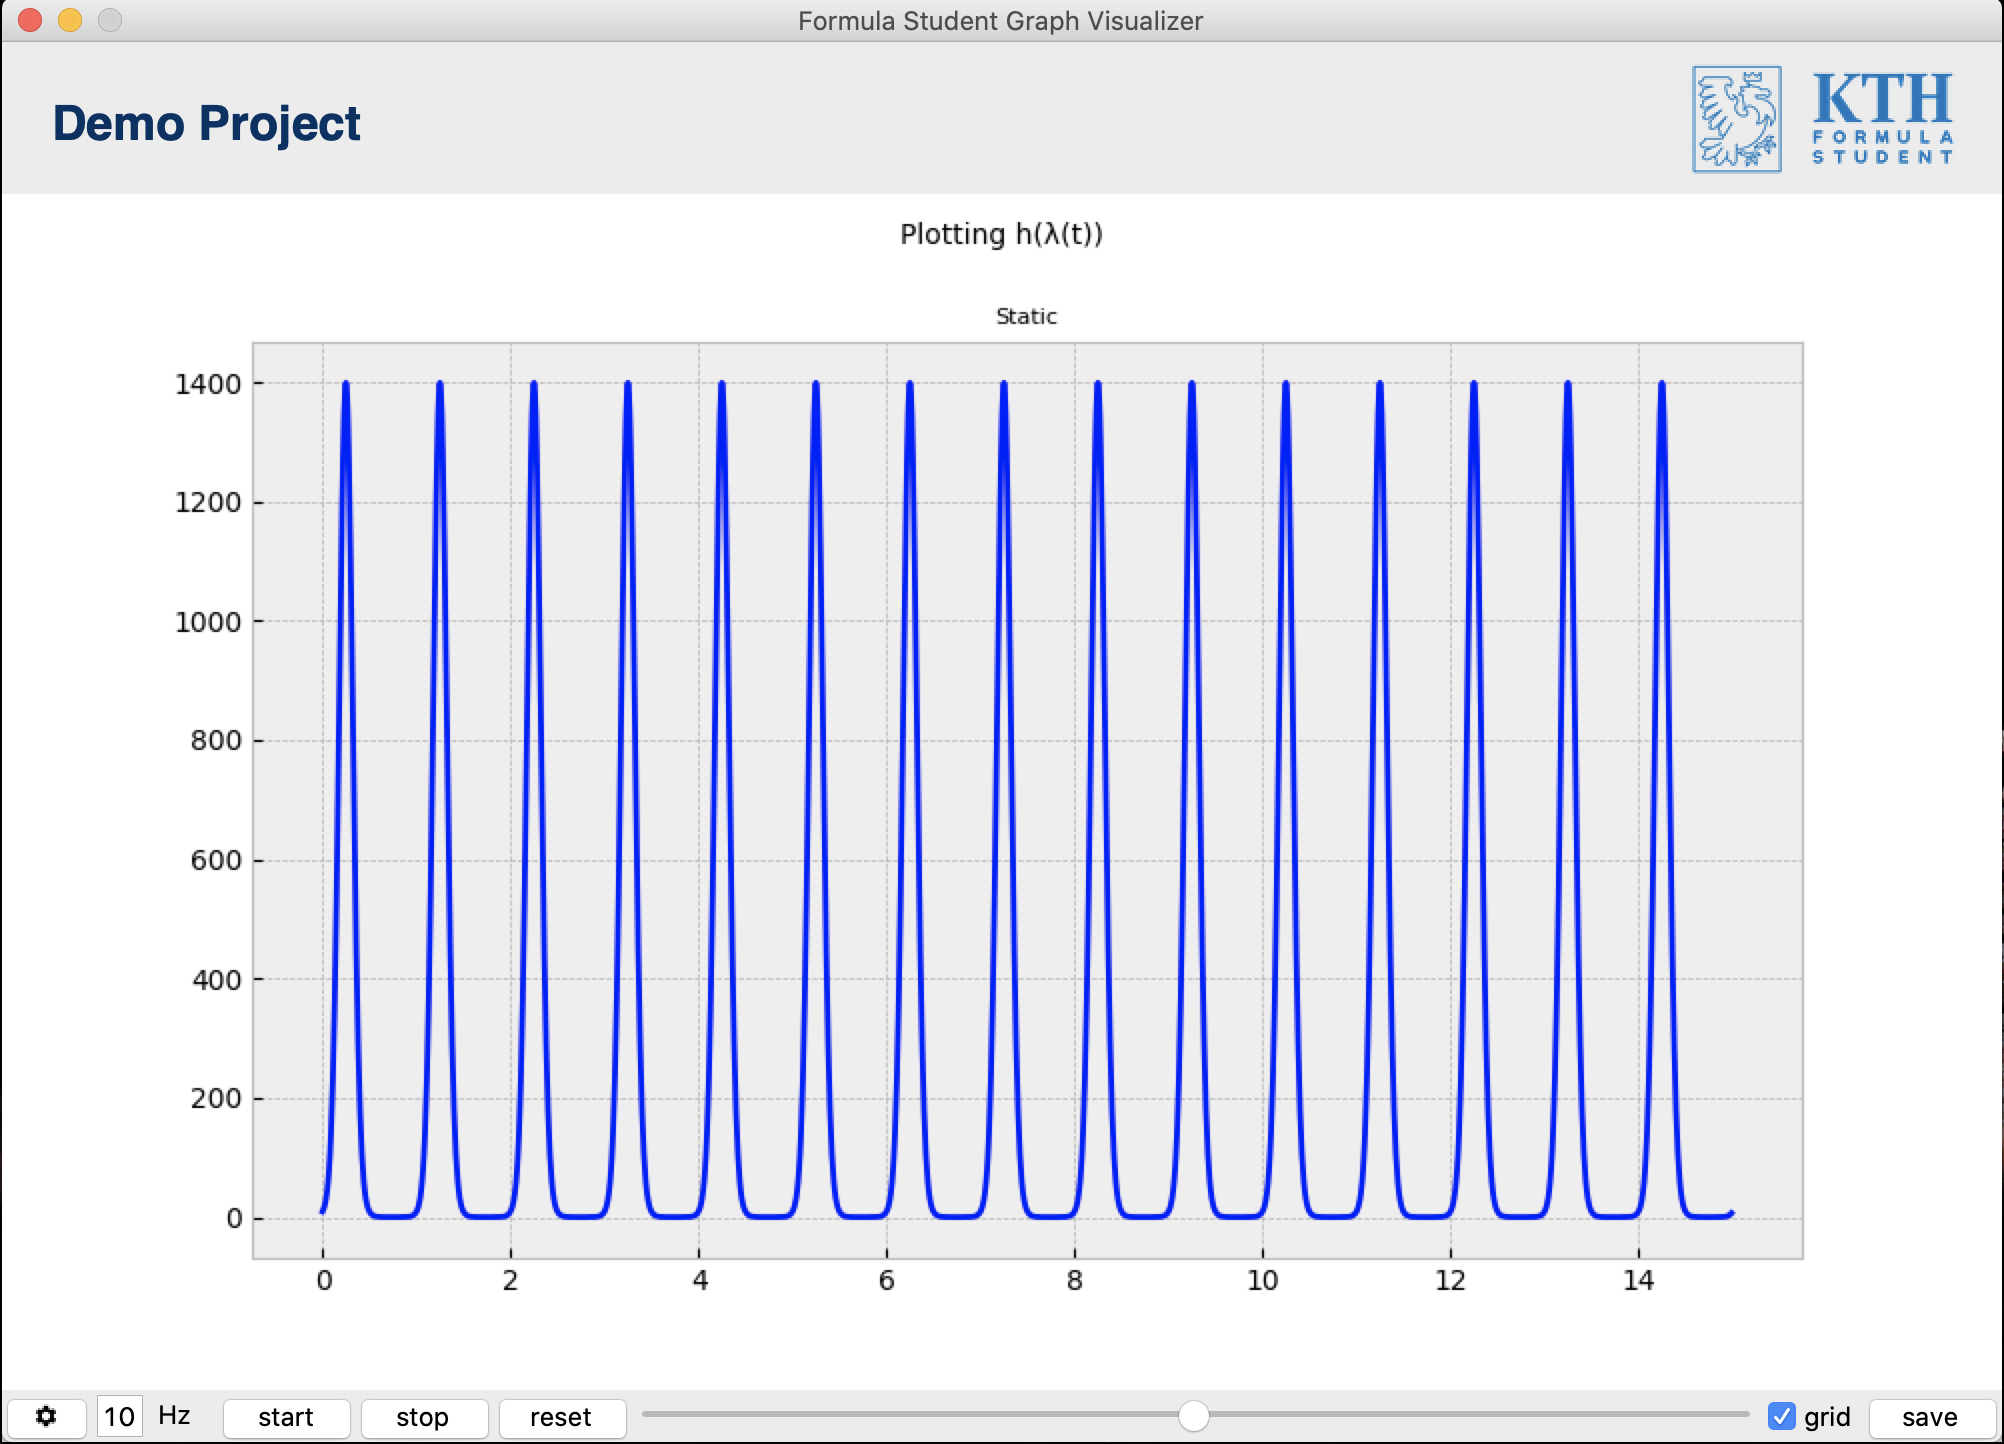
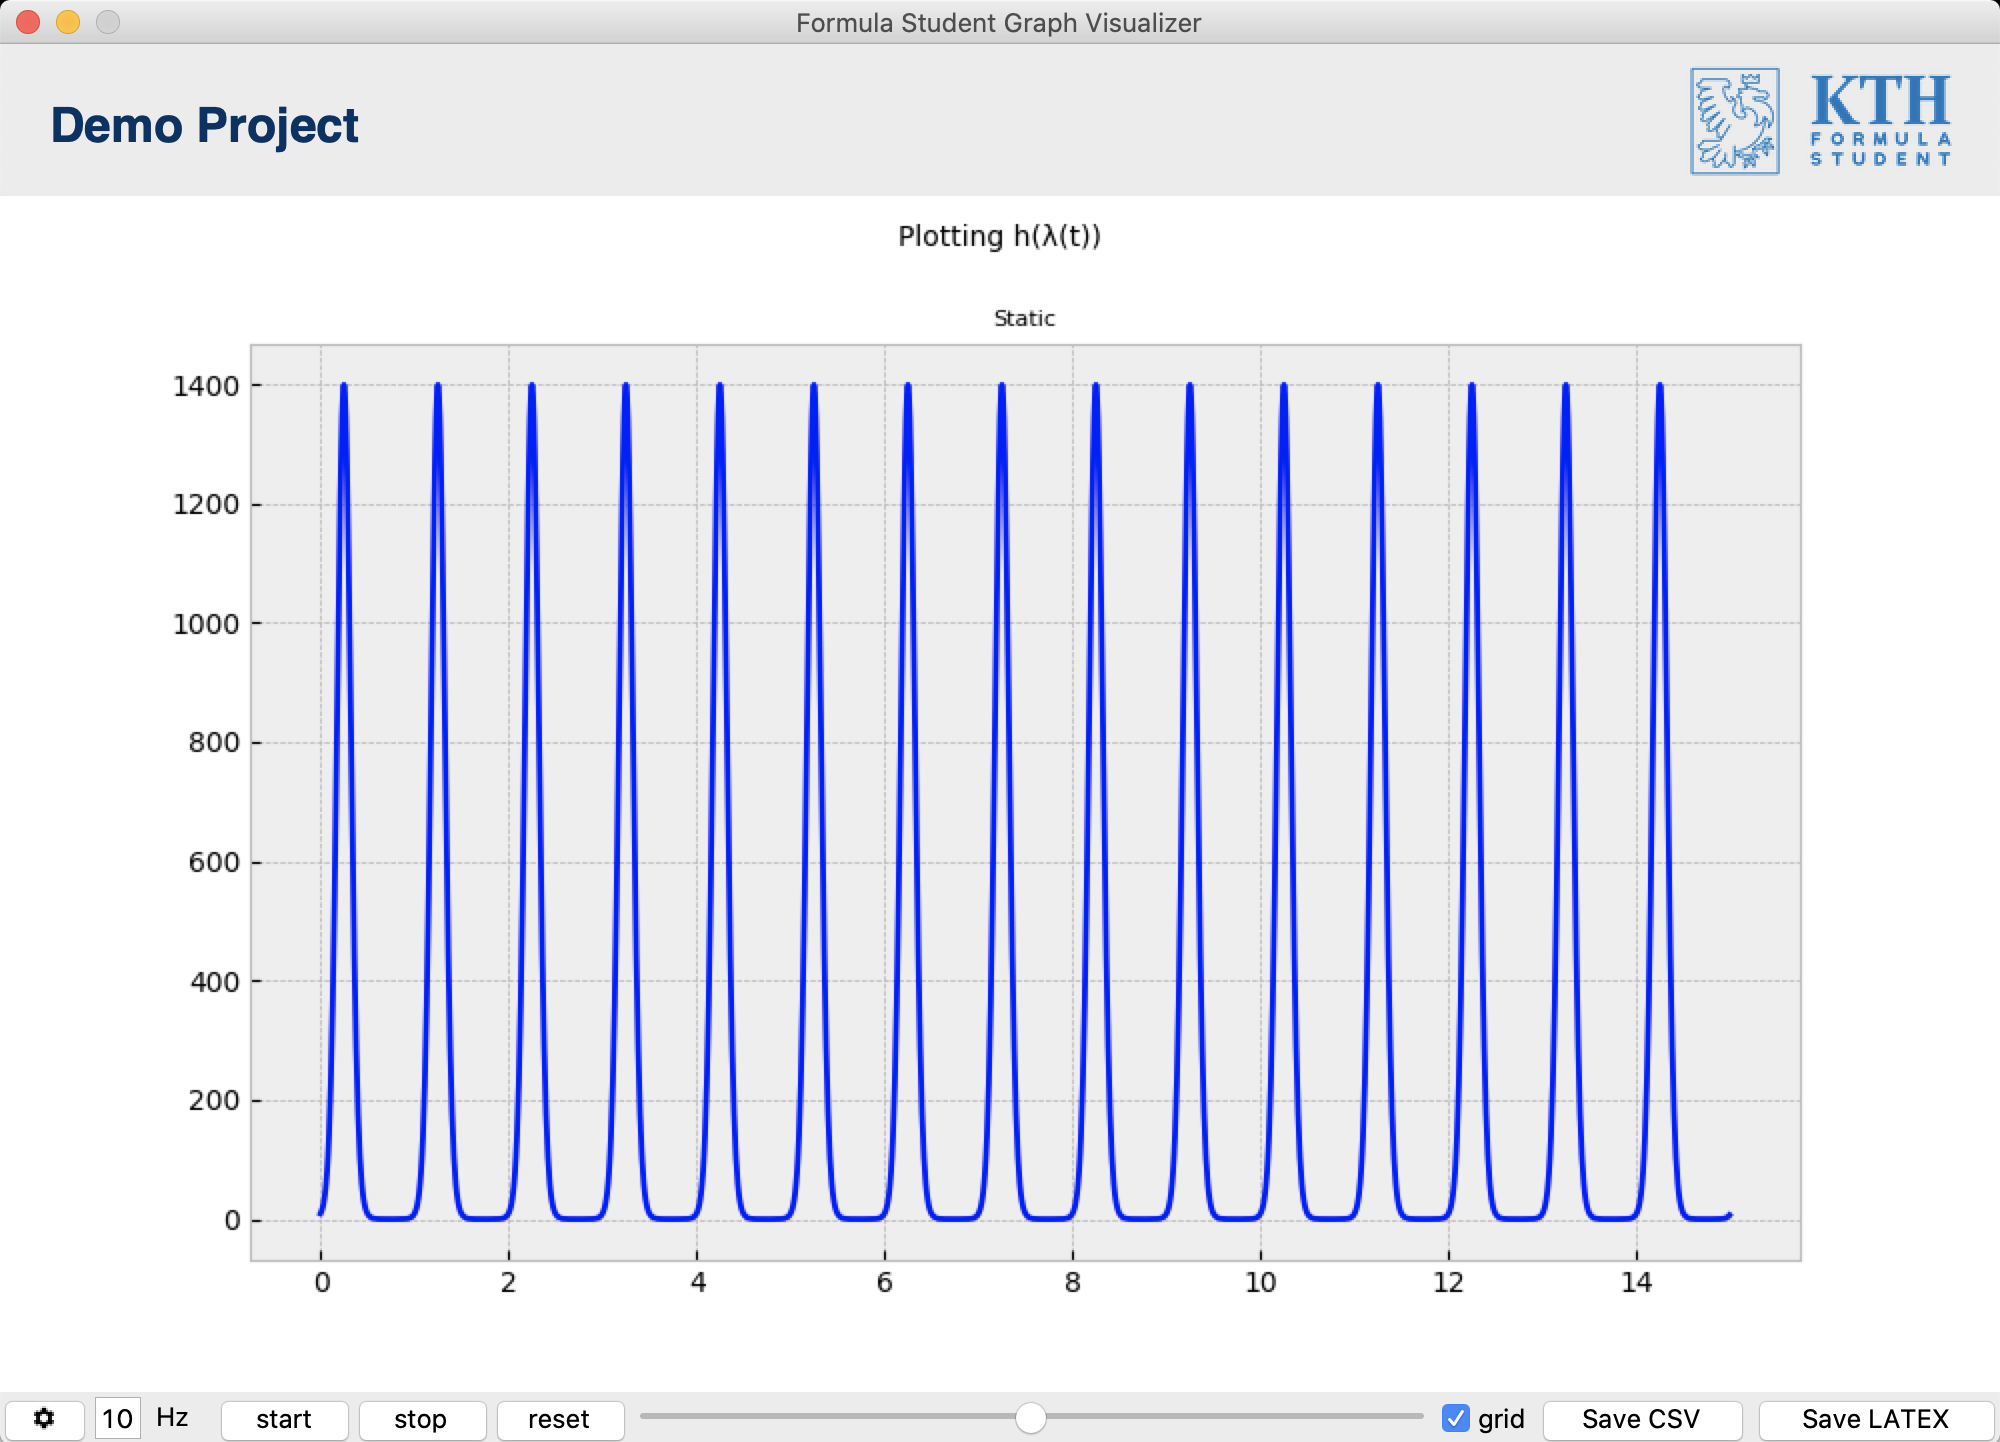
Added functionality to save plot as CSV file.

diff --git a/exercise2/fs_plotter.py b/exercise2/fs_plotter.py
@@ -3,20 +3,20 @@
 # MISC
 import numpy as np
 from PIL import ImageTk, Image
+import csv
 from math import *  # required for easy parsing of new function inputs
 
 # Tkinter
 import tkinter as tk
 import tkinter.ttk as ttk
 import tkinter.font as tfont
-from tkinter.filedialog import asksaveasfile
+from tkinter.filedialog import asksaveasfilename
 
 # Matplotlib
 import tikzplotlib
 from matplotlib.backends.backend_tkagg import FigureCanvasTkAgg
 from matplotlib import pyplot as plt
 import matplotlib.animation as animation
-
 plt.style.use("bmh")
 
 # Global app variables
@@ -417,10 +417,16 @@ class GraphPage(tk.Frame):
         grid_check_button.grid(column=n, row=0, sticky="NSWE", padx=(0, 0))
         n += 1
 
-        # Create Save button
-        save_button = ttk.Button(frame, text="save",
-                                 command=self.click_save, width=4)
-        save_button.grid(column=n, row=0, sticky="NSWE", padx=(3, 0))
+        # Create csv save button
+        csv_save_button = ttk.Button(frame, text="Save CSV", width=8,
+                                     command=self.m_graph.save_csv)
+        csv_save_button.grid(column=n, row=0, sticky="NSWE", padx=(3, 0))
+        n += 1
+
+        # Create latex save button
+        latex_save_button = ttk.Button(frame, text="Save LATEX", width=10,
+                                       command=self.m_graph.save_latex)
+        latex_save_button.grid(column=n, row=0, sticky="NSWE", padx=(3, 0))
         n += 1
 
         return frame
@@ -445,10 +451,6 @@ class GraphPage(tk.Frame):
         self.m_graph.live = False
         self.m_graph.timestep = 1
         self.m_graph.zoom.set(DEFAULT_ZOOM)
-
-    # Executed when save is clicked
-    def click_save(self):
-        self.m_graph.save()
 
 
 class Graph:
@@ -551,11 +553,11 @@ class Graph:
         return FigureCanvasTkAgg(self.fig, container)
 
     # Save the current plot as a tex file for usage in LATEX
-    def save(self):
+    def save_latex(self):
         # Get file save path
-        file_path = asksaveasfile(
+        file_path = asksaveasfilename(
             initialfile=self.project_name_var.get() + ".tex",
-            defaultextension=".tex", filetypes=[("Tex Files", "*.tex")])
+            filetypes=[("Tex Files", ".tex")])
 
         if file_path:
             # Remove titles to make latex graph cleaner
@@ -564,7 +566,31 @@ class Graph:
 
             # Save
             tikzplotlib.clean_figure()
-            tikzplotlib.save(file_path.name)
+            tikzplotlib.save(file_path)
+
+    # Generate a CSV file from graph data
+    def save_csv(self):
+        # Get file save path
+        file_path = asksaveasfilename(
+            initialfile=self.project_name_var.get() + ".csv",
+            filetypes=[("CSV Files", "*.csv")])
+
+        if file_path:
+            # Define x range
+            x_values = np.arange(0, self.zoom.get(),
+                                 self.plot_accuracy)
+
+            # Create file
+            with open(file_path, 'w', newline='') as file:
+                writer = csv.writer(file)
+
+                # Write column titles
+                writer.writerow(["t", "h(t)", "lambda(t)", "h(lambda(t))"])
+
+                # Write data
+                for v in x_values:
+                    writer.writerow([v, self.outer_func(v), self.inner_func(v),
+                                     self.outer_func(self.inner_func(v))])
 
     # Vectorice the lambda functions to be able to create x ranges
     def vectorize_functions(self):
